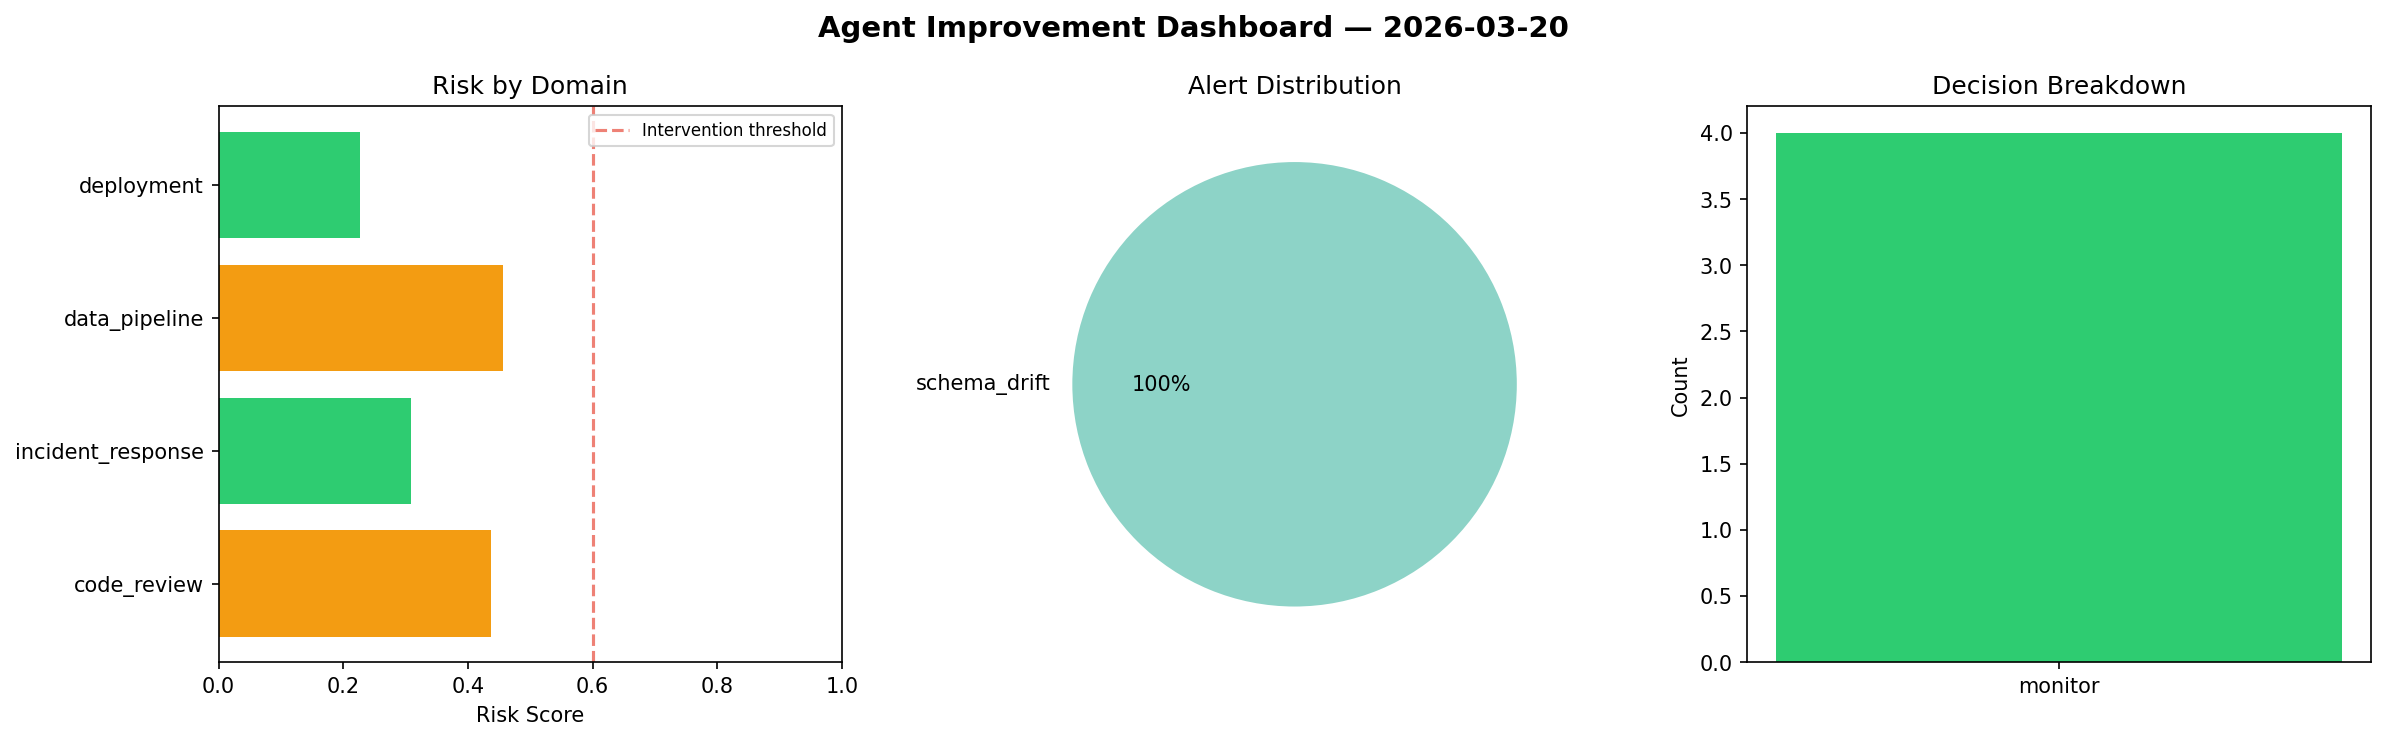
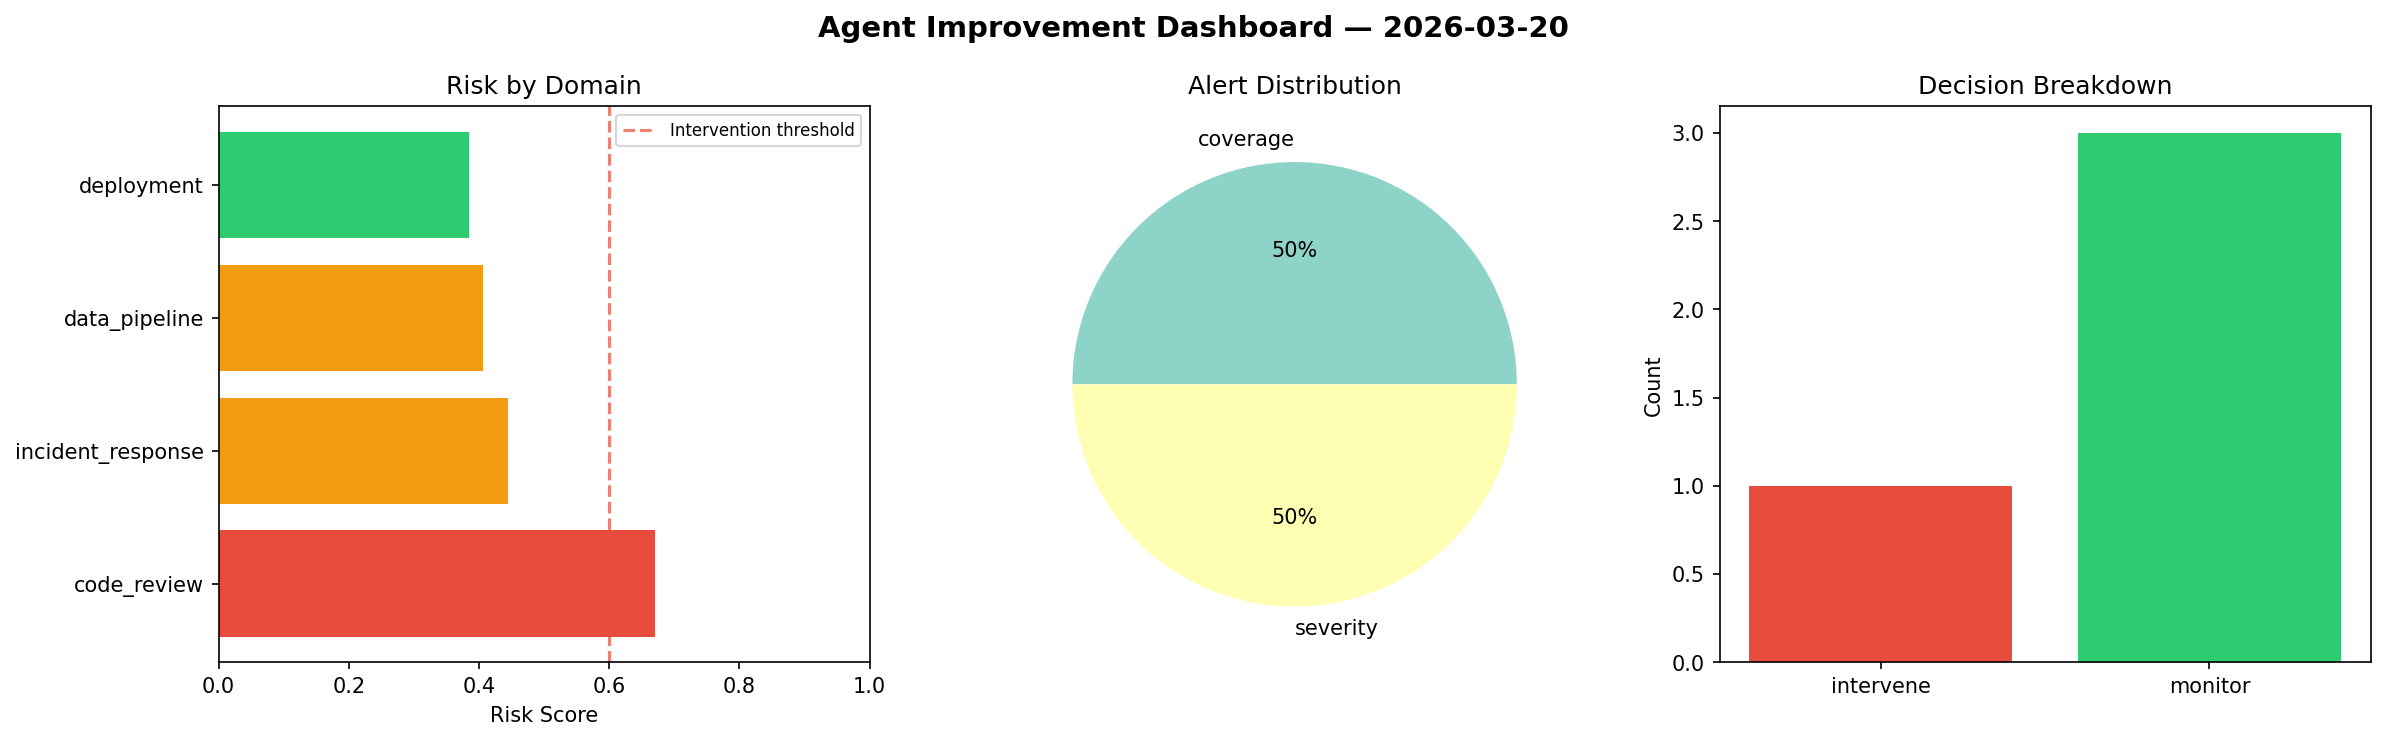
agent-improvement: daily cycle 2026-03-20T08:59

diff --git a/logs/2026-03-20.md b/logs/2026-03-20.md
@@ -1,6 +1,6 @@
 # Agent Improvement Report — 2026-03-20
 
-**Cycle ID:** `76318be0` | **Avg Risk:** 0.3576 | **Interventions:** 0/4
+**Cycle ID:** `30bf7ac5` | **Avg Risk:** 0.476 | **Interventions:** 1/4
 
 ![Dashboard](2026-03-20_dashboard.png)
 
@@ -10,18 +10,18 @@
 
 | Domain | Risk Score | Decision | Alerts |
 |--------|-----------|----------|--------|
-| code_review | 0.4374 | monitor | none |
-| incident_response | 0.3094 | monitor | none |
-| data_pipeline | 0.4563 | monitor | schema_drift |
-| deployment | 0.2271 | monitor | none |
+| code_review | 0.6699 | intervene | coverage |
+| incident_response | 0.4438 | monitor | severity |
+| data_pipeline | 0.4054 | monitor | none |
+| deployment | 0.3849 | monitor | none |
 
 ## Delta vs Yesterday
 
 | Domain | Today | Yesterday | Change |
 |--------|-------|-----------|--------|
-| code_review | 0.4374 | 0.3718 | 📈 17.6% |
-| incident_response | 0.3094 | 0.4051 | 📉 -23.6% |
-| data_pipeline | 0.4563 | 0.8192 | 📉 -44.3% |
-| deployment | 0.2271 | 0.3594 | 📉 -36.8% |
+| code_review | 0.6699 | 0.3718 | 📈 80.2% |
+| incident_response | 0.4438 | 0.4051 | 📈 9.6% |
+| data_pipeline | 0.4054 | 0.8192 | 📉 -50.5% |
+| deployment | 0.3849 | 0.3594 | 📈 7.1% |
 
 **Refinement:** `{'adjustment': 'maintain', 'trend': 'improving', 'window': 4}`
